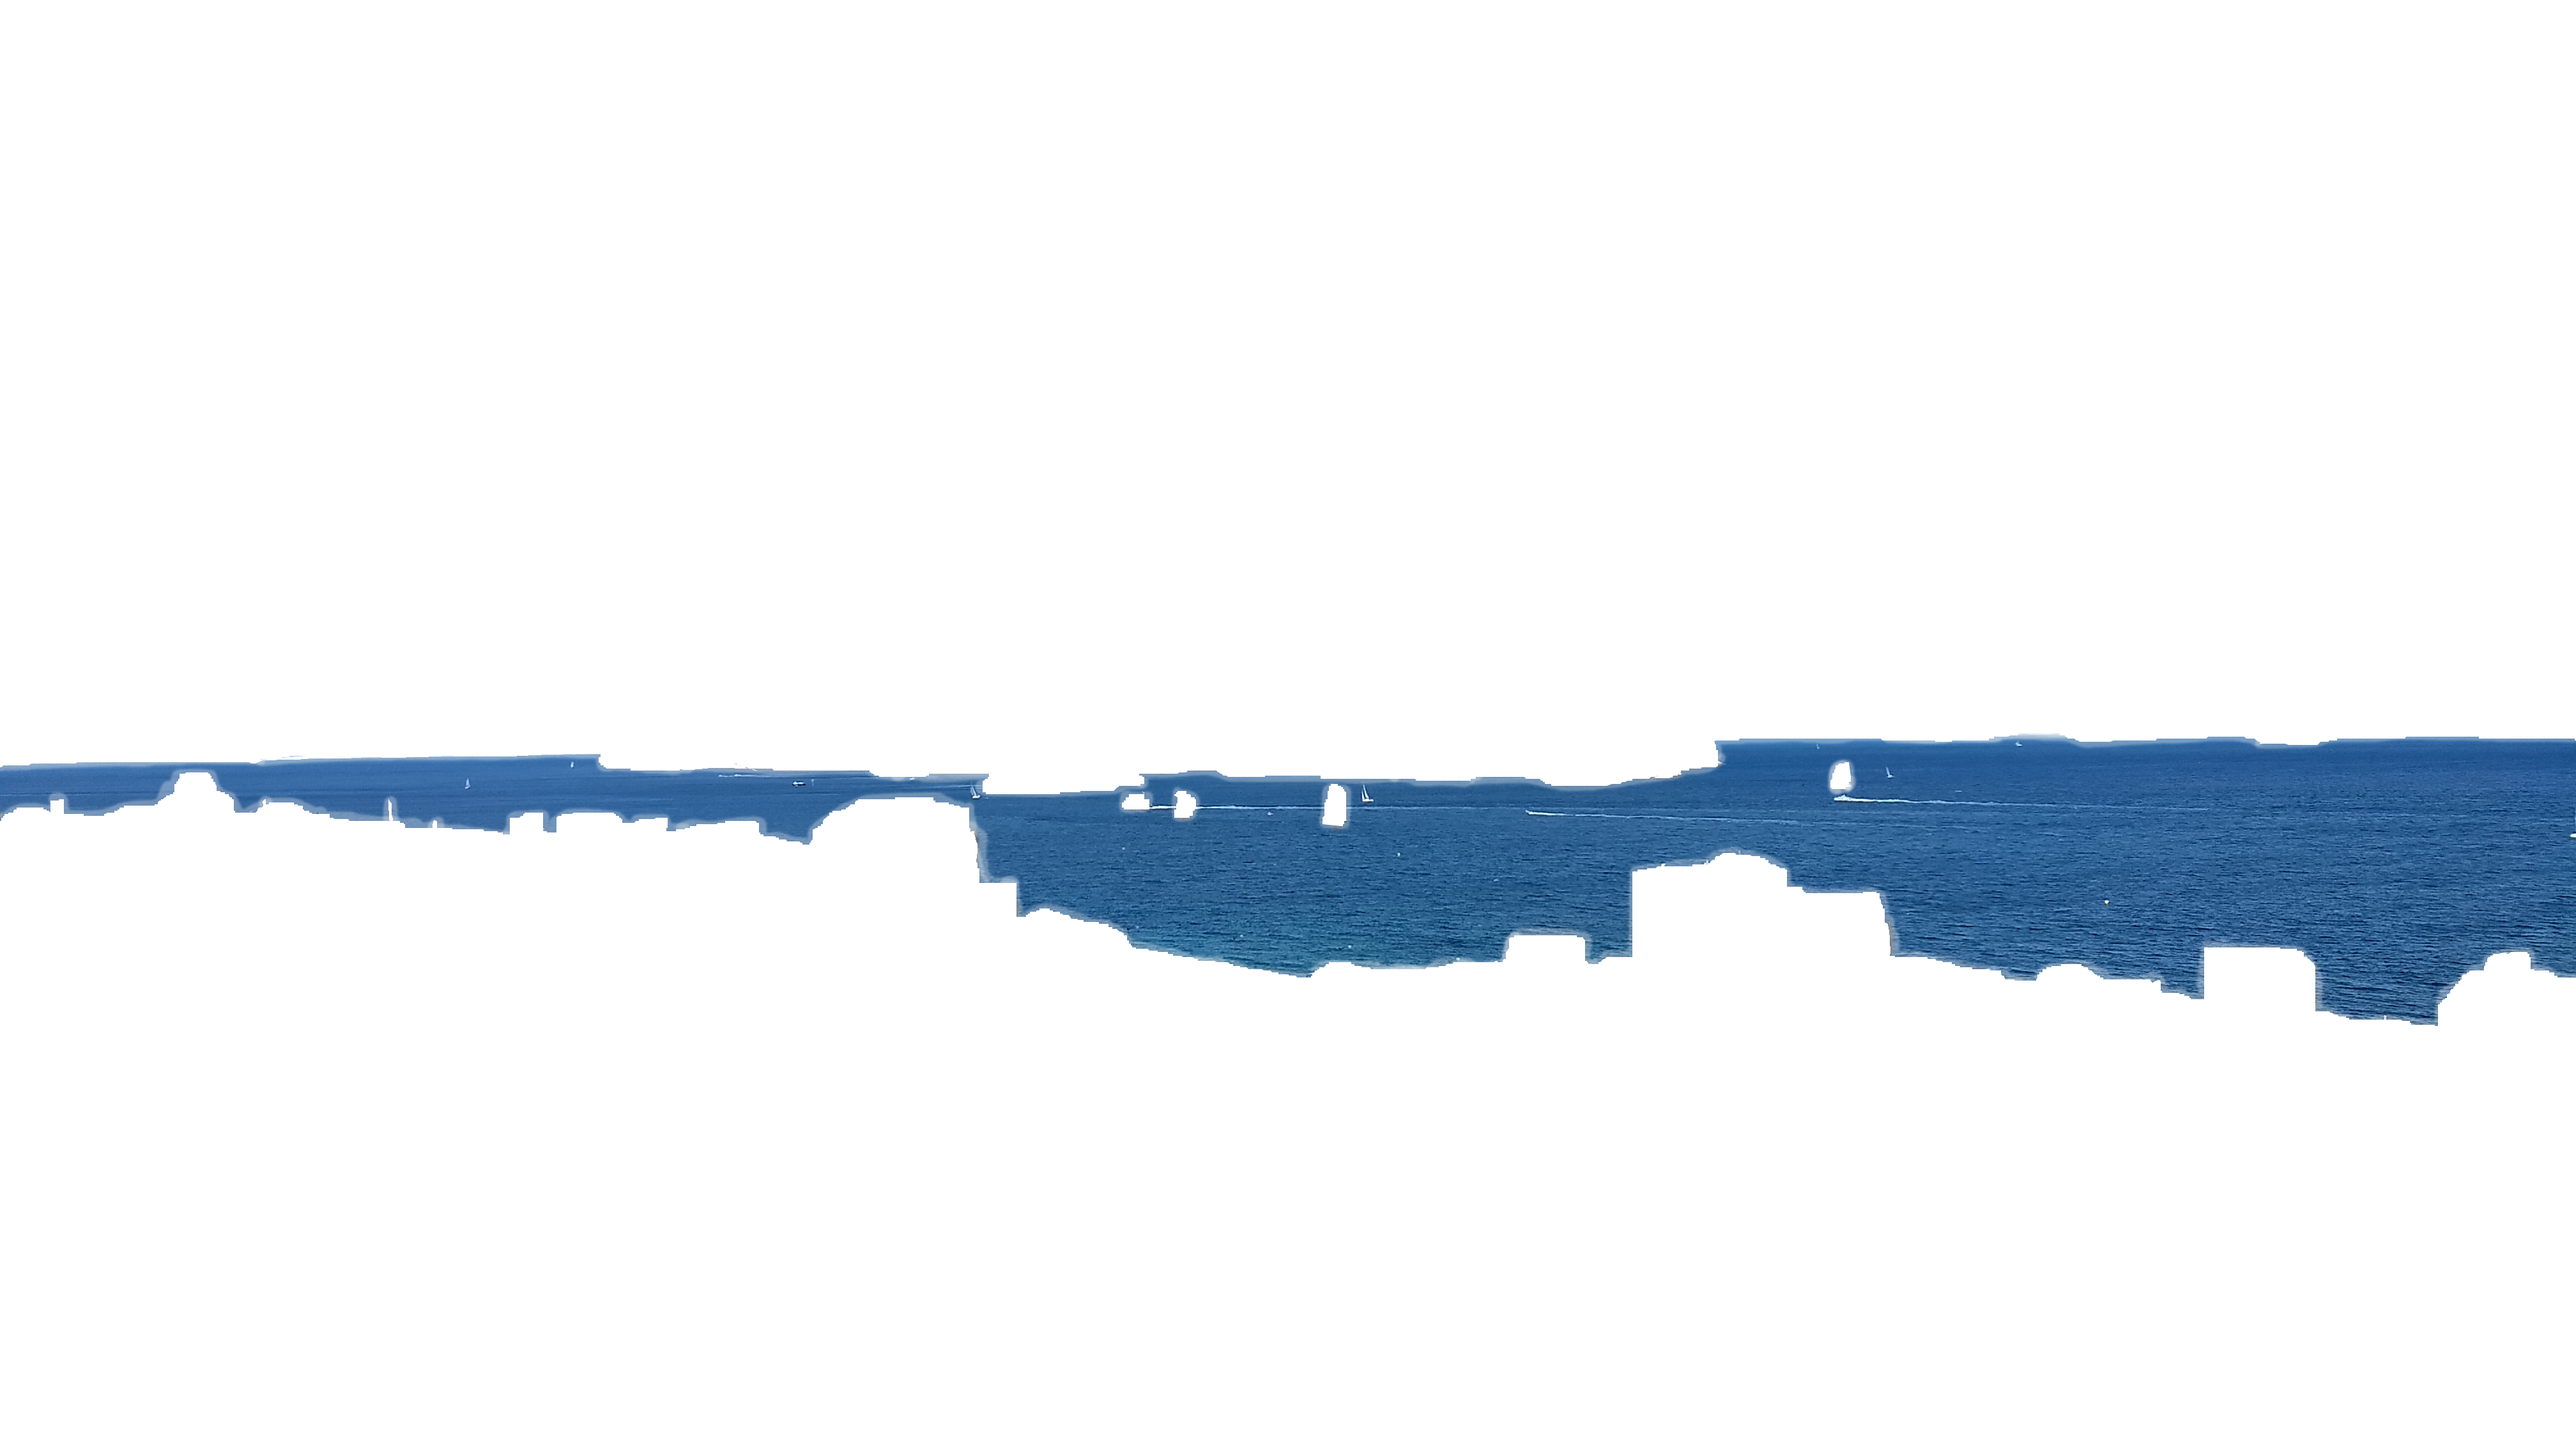
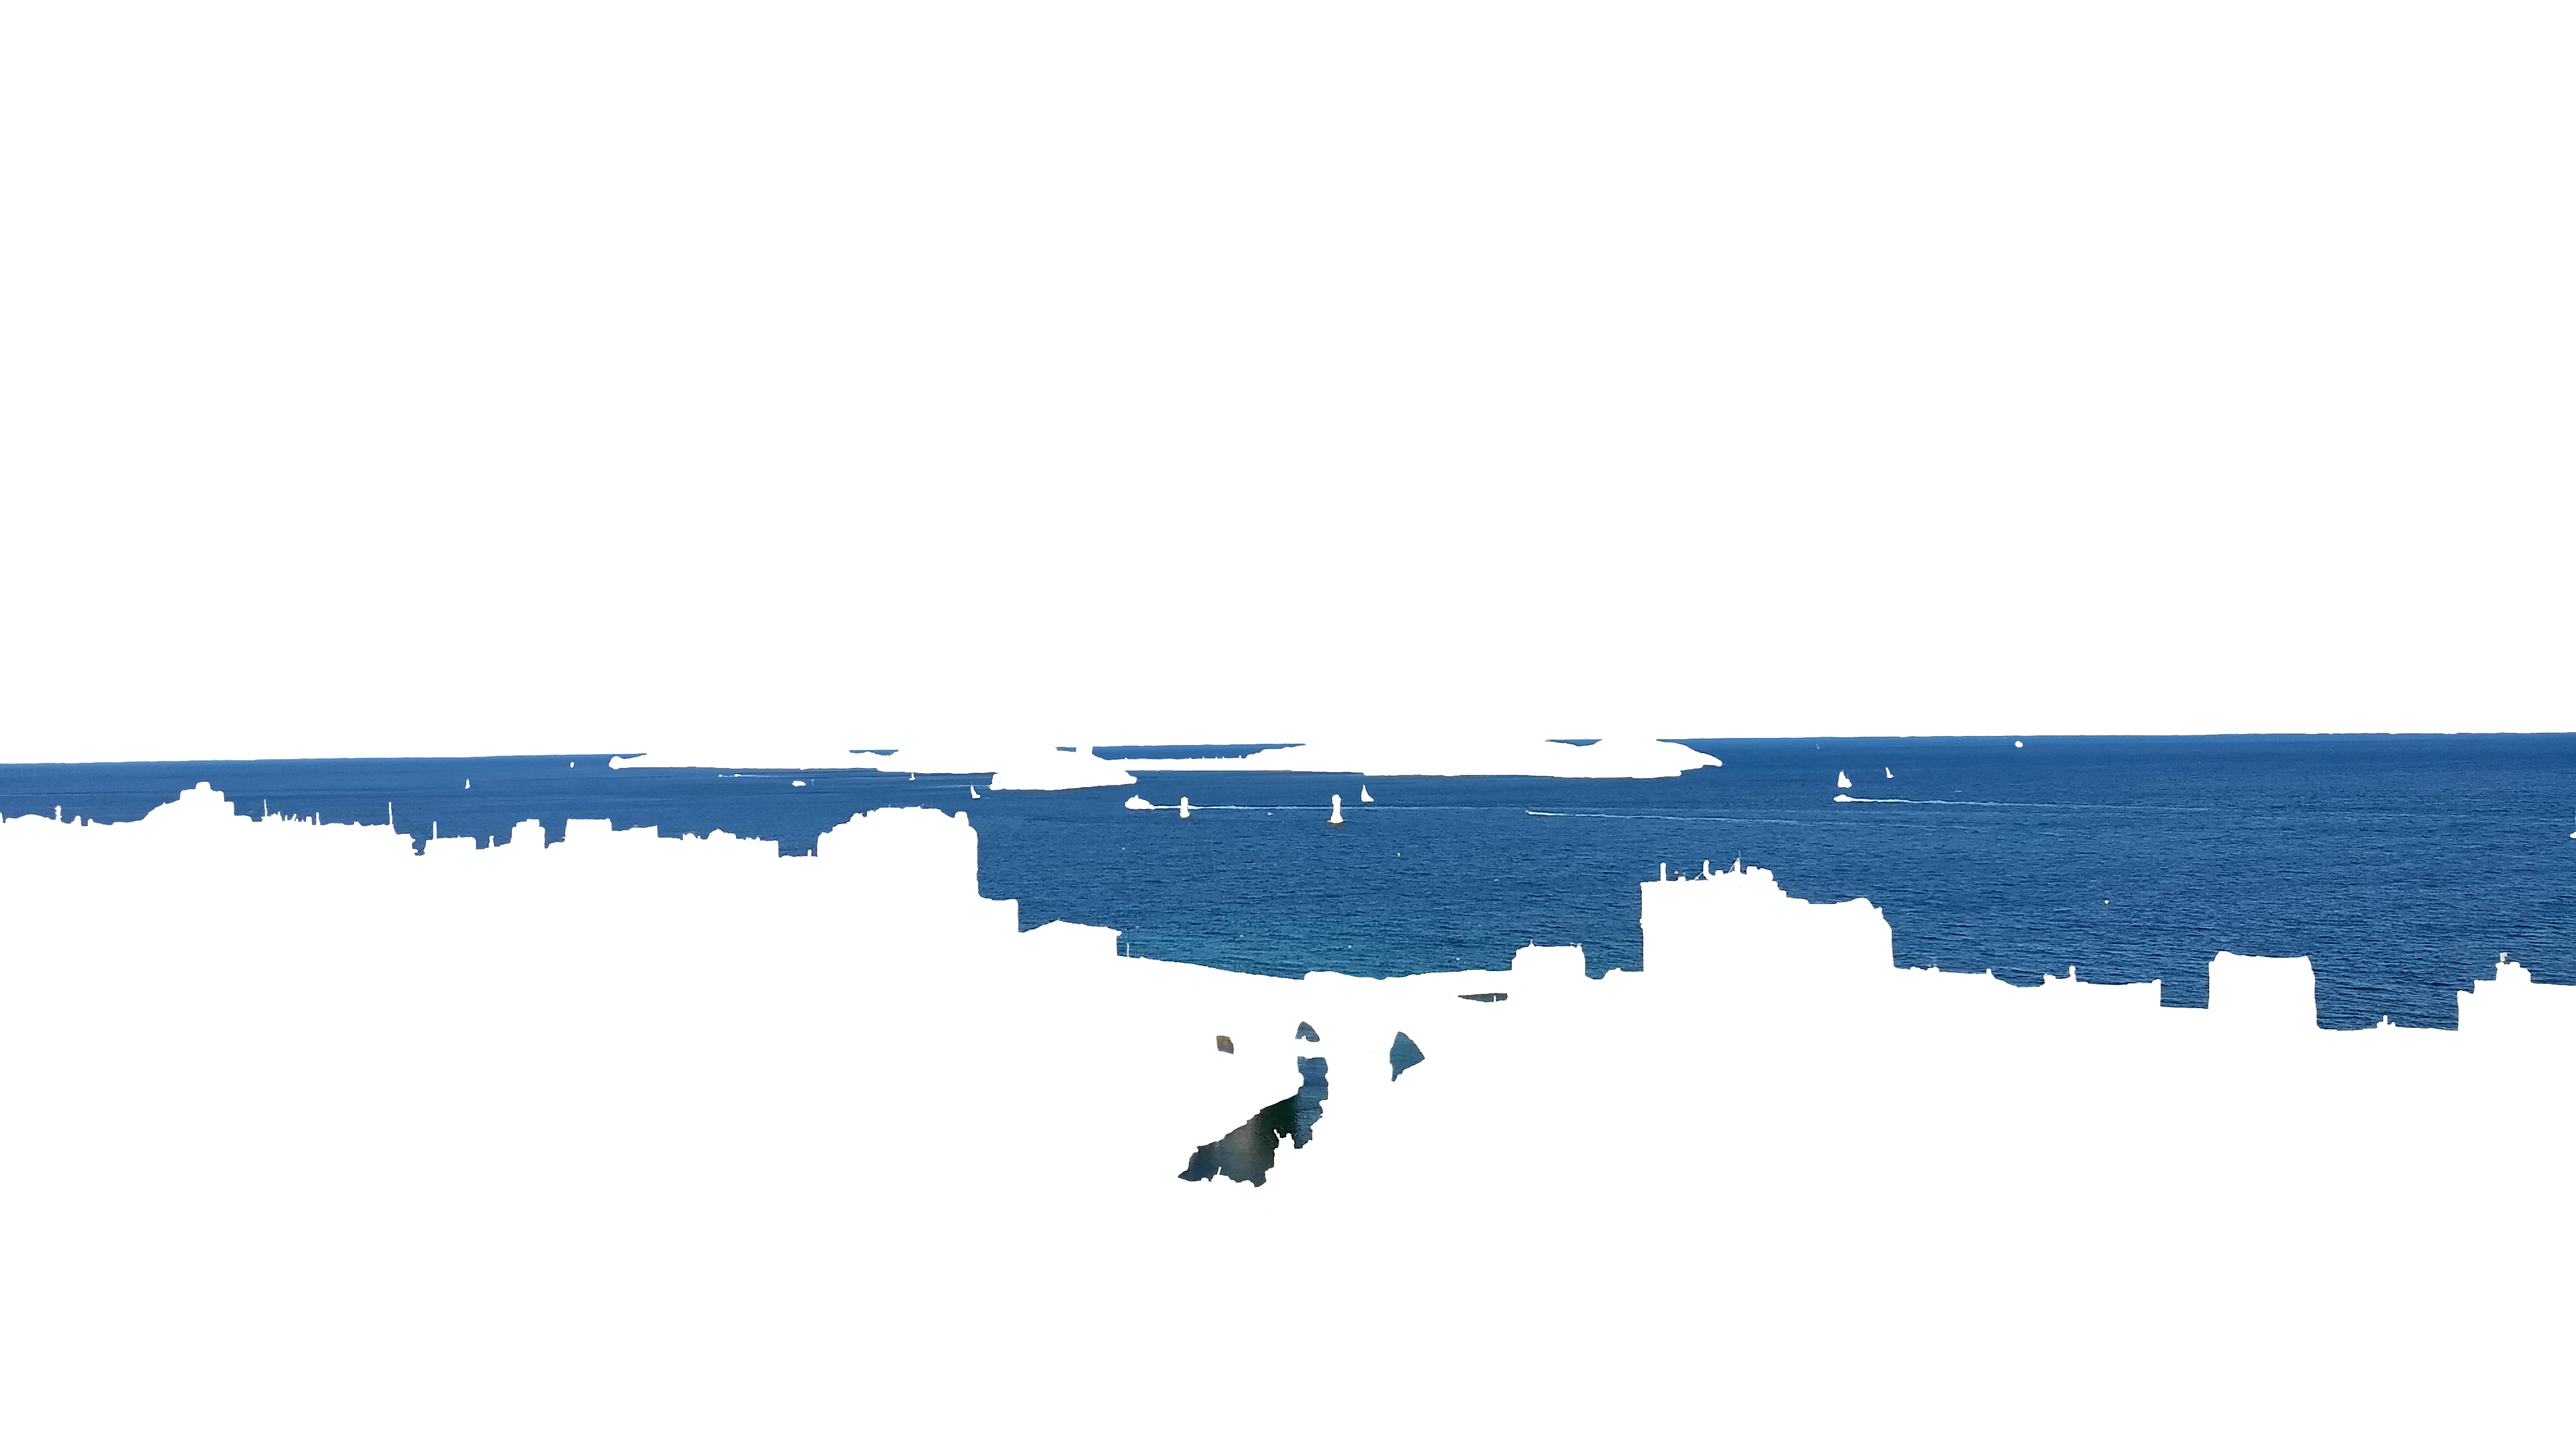
Improved mask image, removed clipping

diff --git a/resume.html b/resume.html
@@ -35,8 +35,8 @@
 					</div>
 					<svg>
 						<filter id="turbulence" x="0" y="0" width="100%" height="100%">
-						  <feTurbulence id="sea-filter" numOctaves="3" seed="2" baseFrequency="0.02 0.05"></feTurbulence>
-						  <feDisplacementMap scale="20" in="SourceGraphic"></feDisplacementMap>
+						  <feTurbulence id="sea-filter" numOctaves="3" seed="2" baseFrequency="0.002 0.005"></feTurbulence>
+						  <feDisplacementMap scale="1" in="SourceGraphic"></feDisplacementMap>
 						  <animate xlink:href="#sea-filter" attributeName="baseFrequency" dur="120s" keyTimes="0;0.5;1" values="0.02 0.06;0.04 0.08;0.02 0.06" repeatCount="indefinite"/>
 						</filter>
 					</svg>
